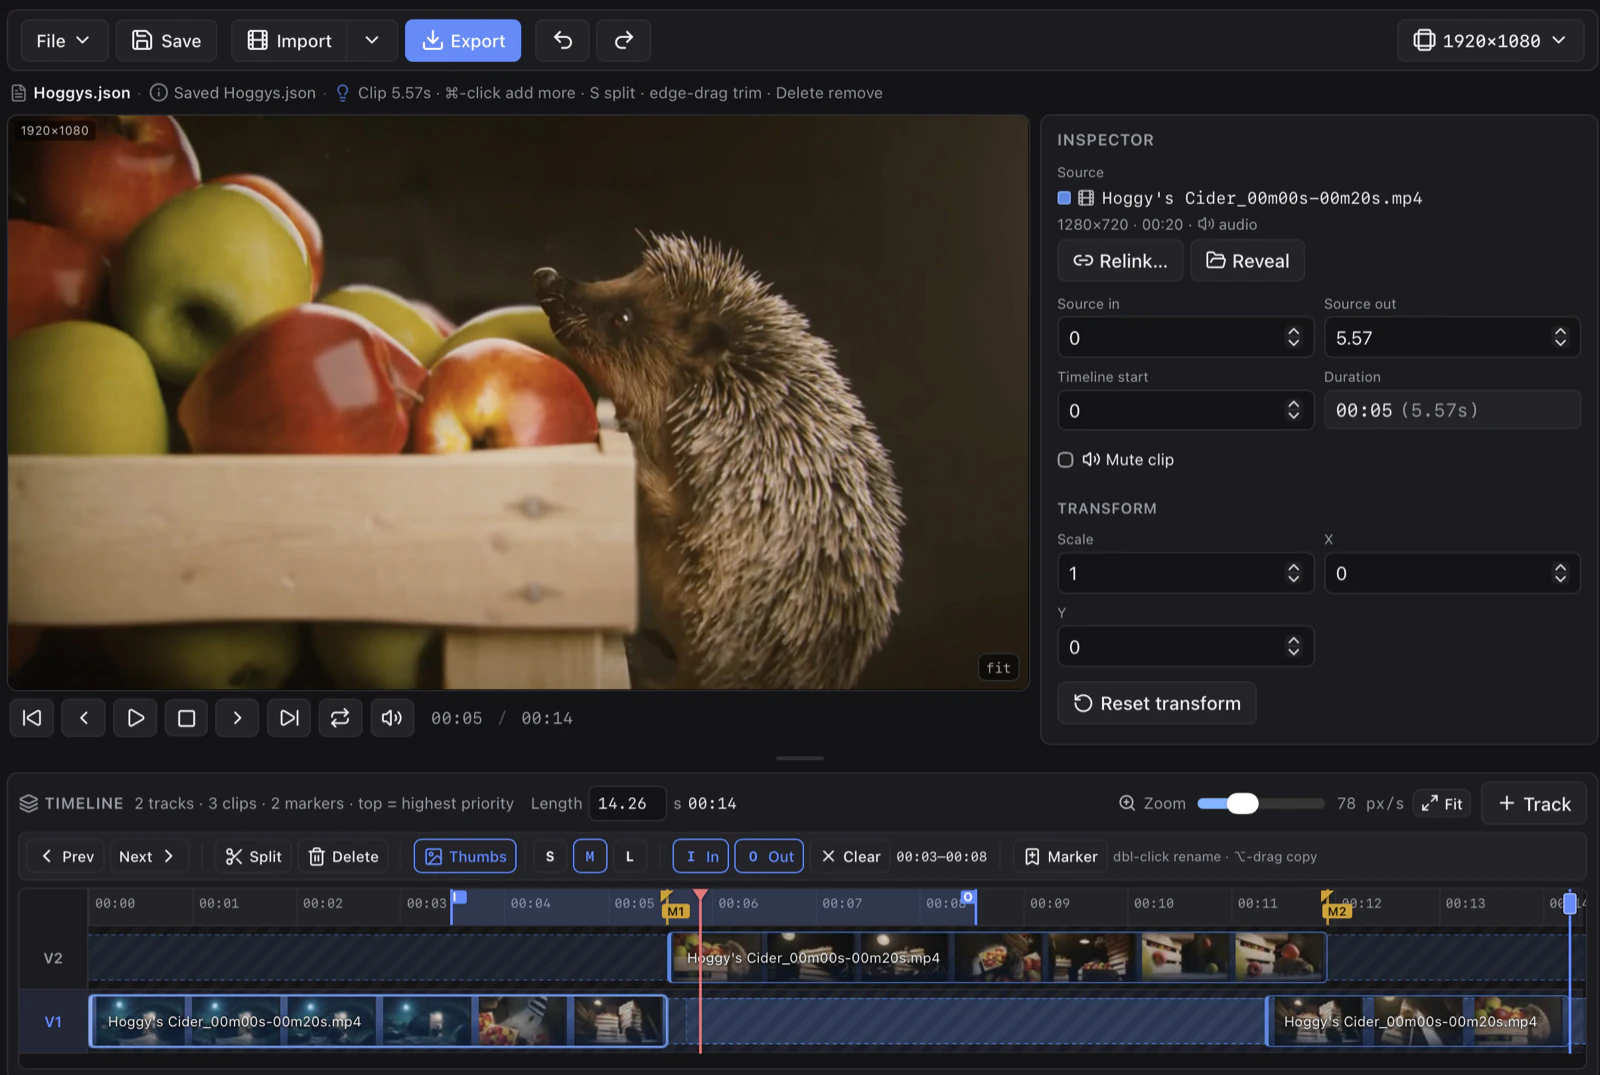
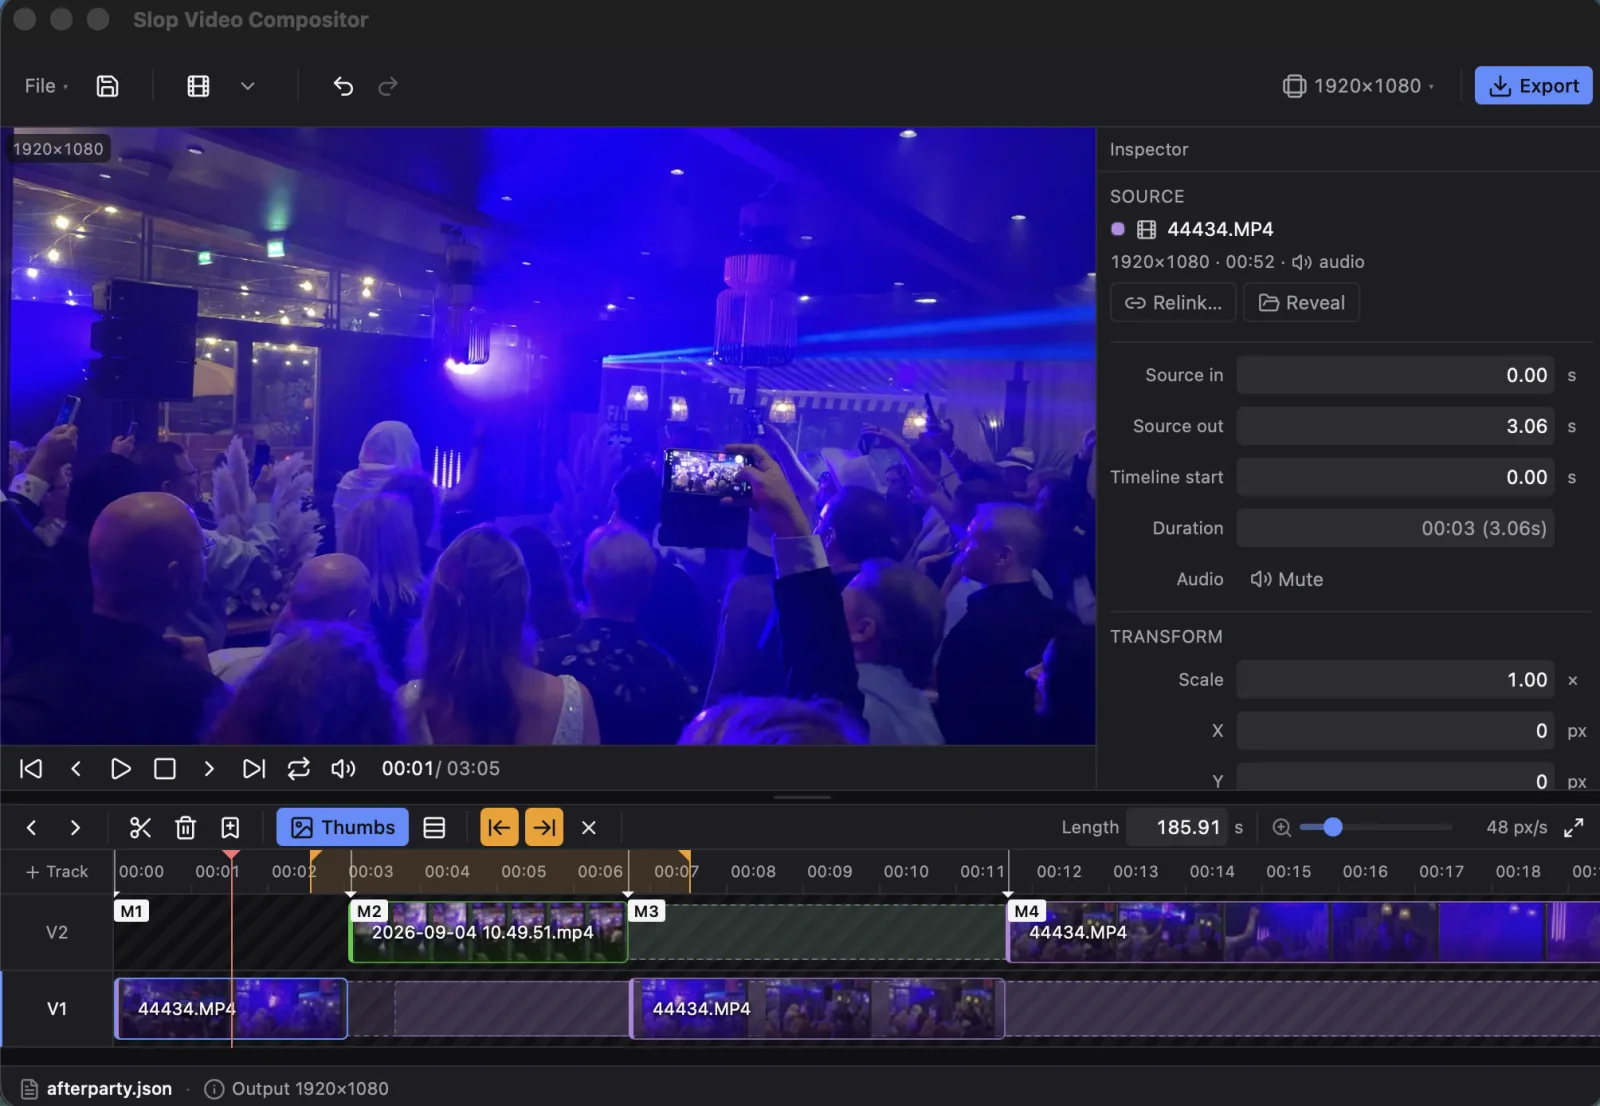
docs: refresh the screenshot and the UI text it no longer matched
The shot predated the style-alignment and timeline-density work, so it
still showed floating card panels, a status line under the toolbar, a
separate TIMELINE header row, labelled tool buttons and clips that were
all one blue. Replace it with the current app, which also happens to show
per-source clip colours doing their job.

Correct the README where it described the old chrome: the track-height
button cycles S/M/L rather than being three buttons, markers can be
dragged, the two timeline bars are now one icon-only strip carrying
Length/zoom/Fit, the status line sits along the bottom, and the inspector
is drag-resizable with numbers that change by dragging. Inspector width
now persists alongside the other session prefs.

Also ignore /temp, the drop folder for screenshots.

Claude-Session: https://claude.ai/code/session_01FjpjFzSq39pWiHzPVBwMyc

diff --git a/README.md b/README.md
@@ -26,11 +26,11 @@ Desktop multi-shot **hard-cut** video compositor: load local video and audio ont
 - **Per-clip mute** (preview + export)
 - **Gap hatch** on empty track time; **trim handles** show unused source outside in/out
 - Per-source clip colors; long names truncated (full path on hover)
-- Snap on drag/trim (**Shift** = free); Fit zoom; **S/M/L** track row height
+- Snap on drag/trim (**Shift** = free); Fit zoom; track row height cycles S/M/L on one button
 - Optional **filmstrips** on video clips and **waveforms** on audio (Thumbs toggle; prefs persist)
 - **Program out** sequence end (shortening trims/deletes media past that time)
 - Import placement: append / at playhead / each file → new track
-- Named **markers** (seek, double-click rename, Alt+click remove); **⌥-drag** copy clips
+- Named **markers** (seek, drag to move with snapping, double-click rename, Alt+click remove); **⌥-drag** copy clips
 - Multi-select (⌘/Ctrl-click) + group time move; copy / paste / duplicate
 
 ### Preview & export
@@ -42,8 +42,10 @@ Desktop multi-shot **hard-cut** video compositor: load local video and audio ont
 - Relink + Reveal source; autosave `*.autosave.json`; startup **ffmpeg** check
 
 ### UI chrome
-- Compact toolbar: **File ▾**, **Import** + place menu, **Export**, undo/redo, **Canvas ▾**
-- Timeline tool strip: Prev/Next cut, Split, Delete, Thumbs, S/M/L, I/O range, Marker
+- Compact toolbar: **File ▾**, save, **Import** + place menu, undo/redo, **Canvas ▾**, **Export**
+- One timeline strip, icon-only: Prev/Next cut, Split, Delete, Marker, Thumbs, track height, I/O range, Clear — with Length, zoom and Fit on the right
+- Flush panels with a status line along the bottom; **drag-resizable** inspector (width persists)
+- Inspector numbers change by dragging across the field, or by typing
 
 ## Requirements
 
@@ -93,7 +95,7 @@ npm run tauri dev
 
 1. **Import** (`Import` or ⌘I) — video and/or audio. Default **appends** on the selected track. Import ▾ for playhead or each-file→new-track (⌘⇧I).
 2. **Edit** on the timeline: drag to move (snaps), edge-drag to trim (dim **handles** = unused media still on disk), **S** split, Delete remove. **⌥-drag** duplicates.
-3. **Thumbs** — filmstrips on video, waveforms on audio beds; **S/M/L** track height. First generation may take a few seconds (cached after that).
+3. **Thumbs** — filmstrips on video, waveforms on audio beds; the track-height button cycles S/M/L. First generation may take a few seconds (cached after that).
 4. **Reframe** in the preview: **Ctrl/⌘-drag** pans the clip; **Shift-drag** scales; wheel zooms the **viewport**. Timeline **Fit** fills the track width.
 5. **Play range** (optional): **I** / **O** at the playhead for preview-only in/out; **L** loop; export ignores the range.
 6. **Canvas ▾** — presets (1080p, 720p, vertical, square) or custom even W×H.
@@ -145,8 +147,8 @@ Ignored while focus is in text fields.
 - **Trim handles:** dashed extensions = media still in the file but outside the used range.
 - **Gap hatch:** empty track time (no clip, not trimmed media).
 - **Solo:** double-click a track label (preview only; export uses all tracks).
-- **Markers:** click seek; double-click rename; Alt+click remove.
-- **Thumbs / S·M·L:** session prefs persist in app settings (with timeline height).
+- **Markers:** click seek; drag to move (snaps); double-click rename; Alt+click remove.
+- **Thumbs / track height:** session prefs persist in app settings (with timeline height and inspector width).
 - **Audio beds:** audio-only clips never win the picture track; they mix under the hard-cut video.
 
 ## Project files
